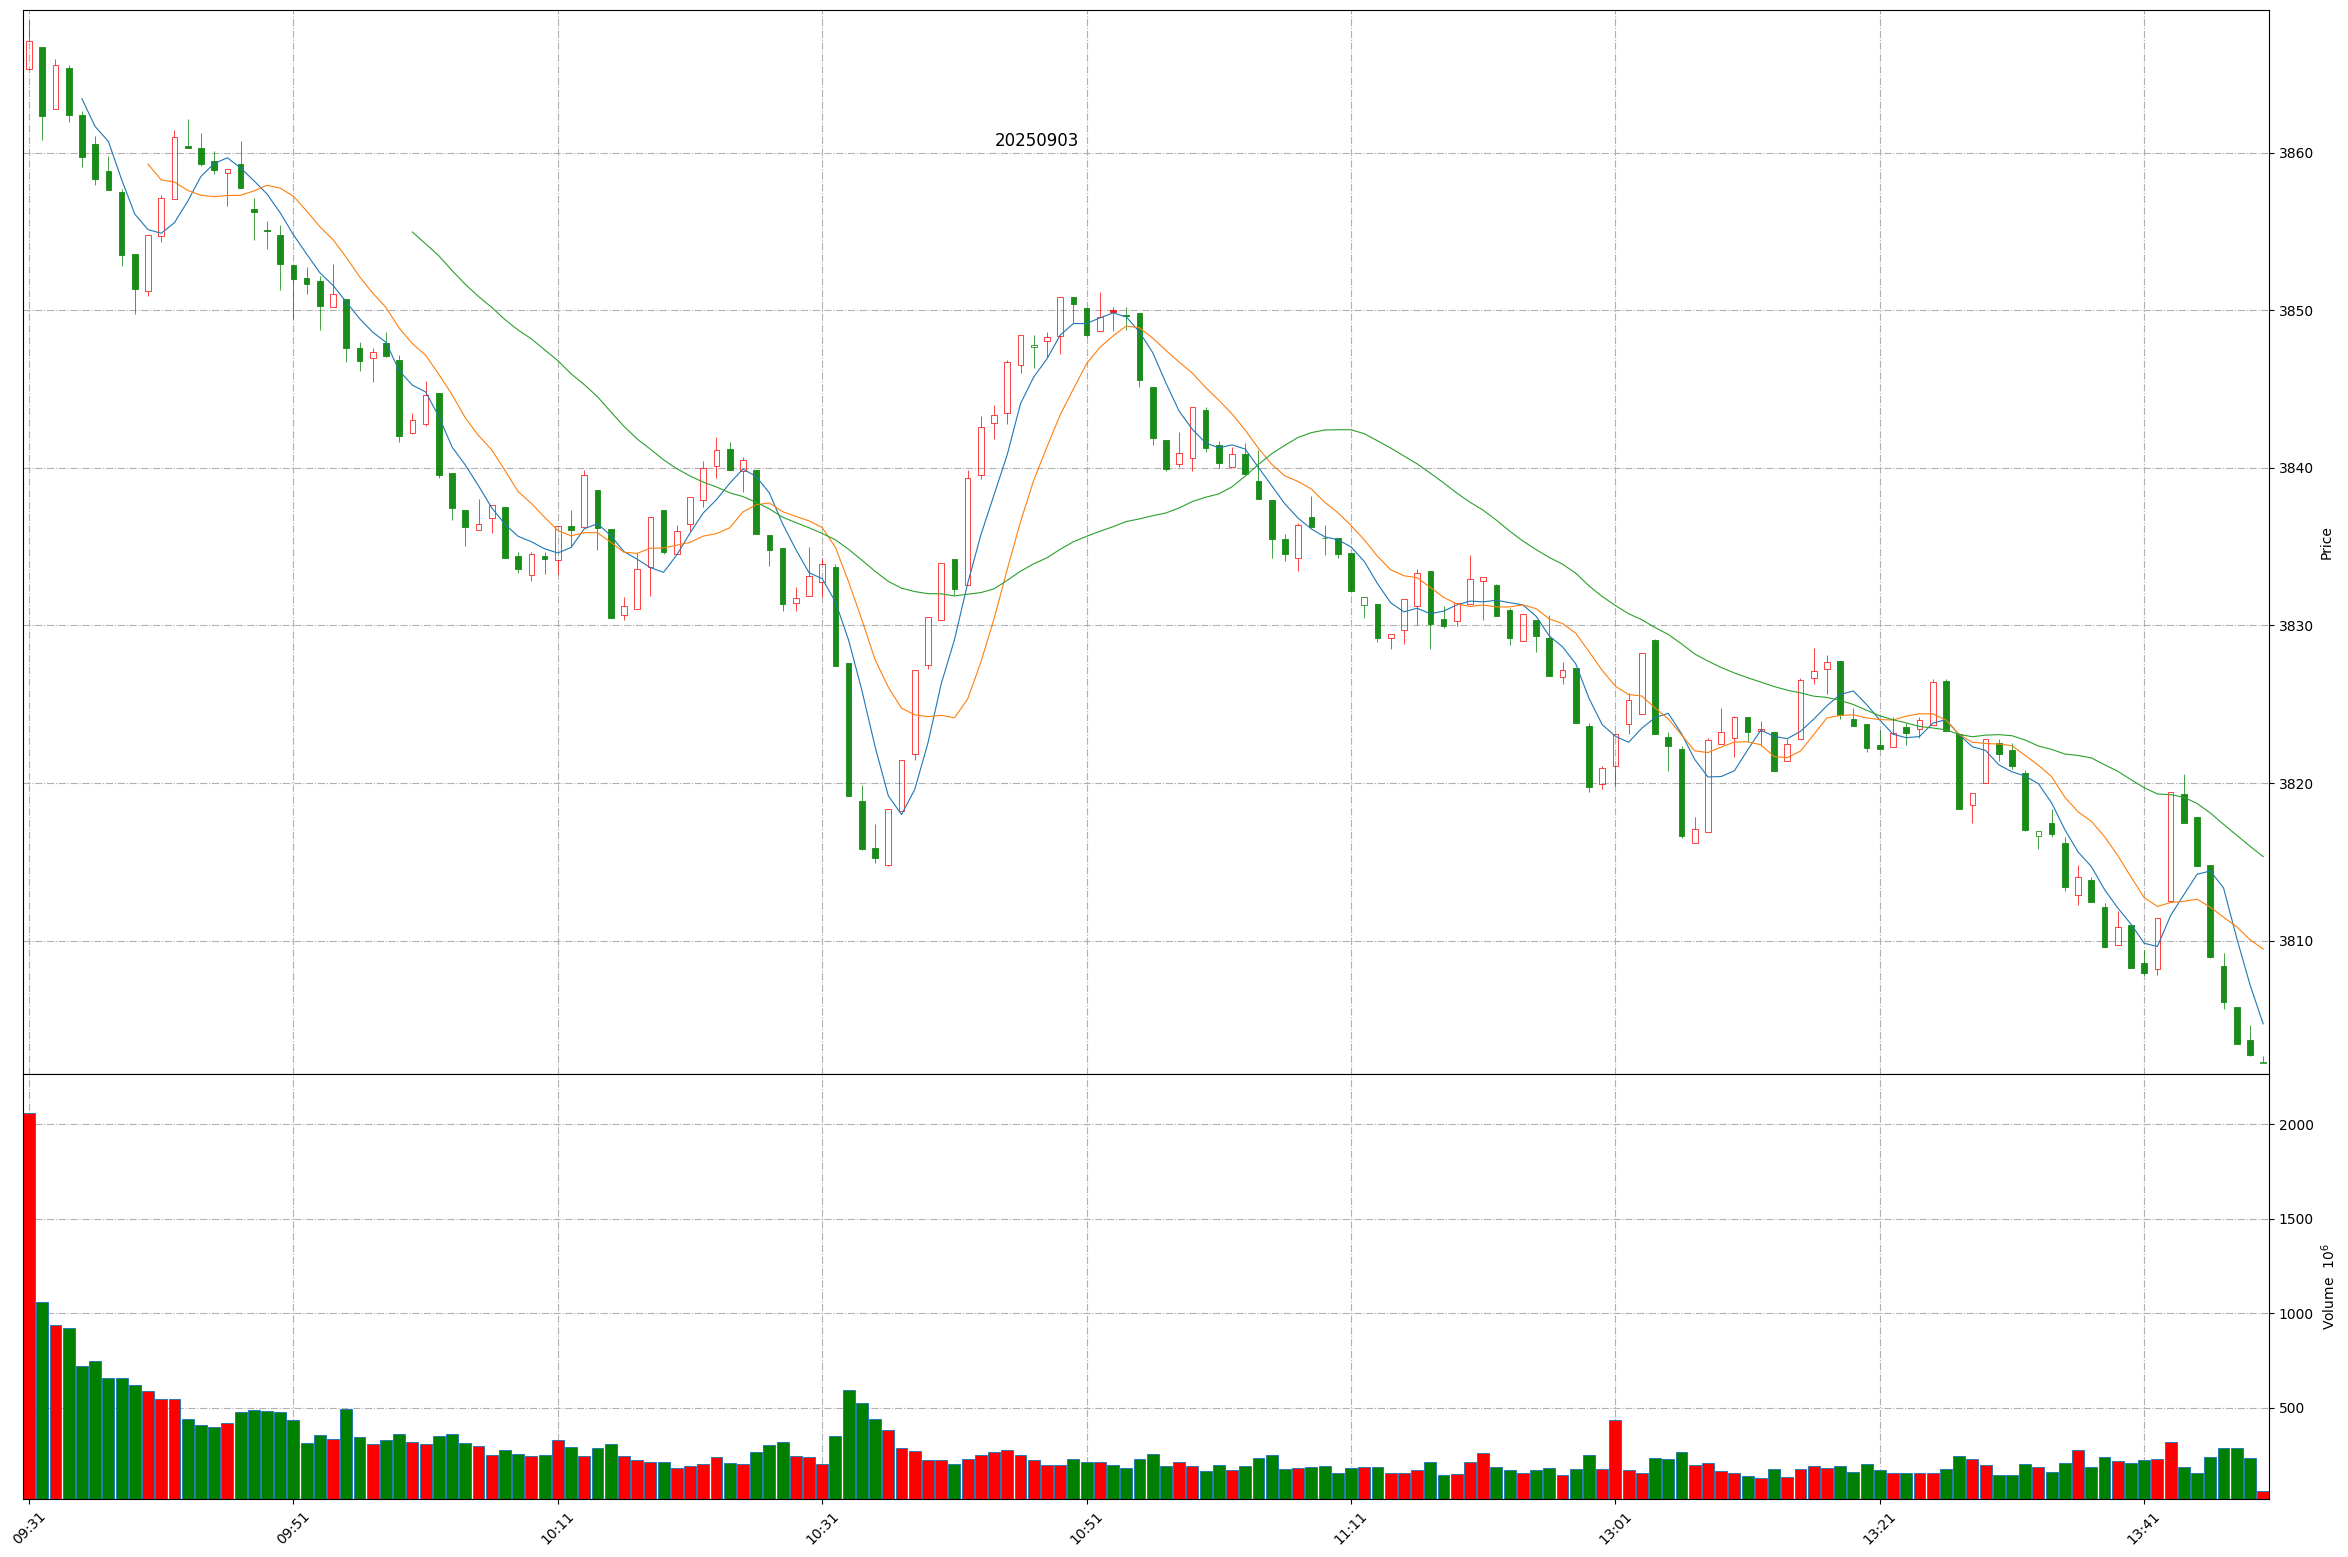
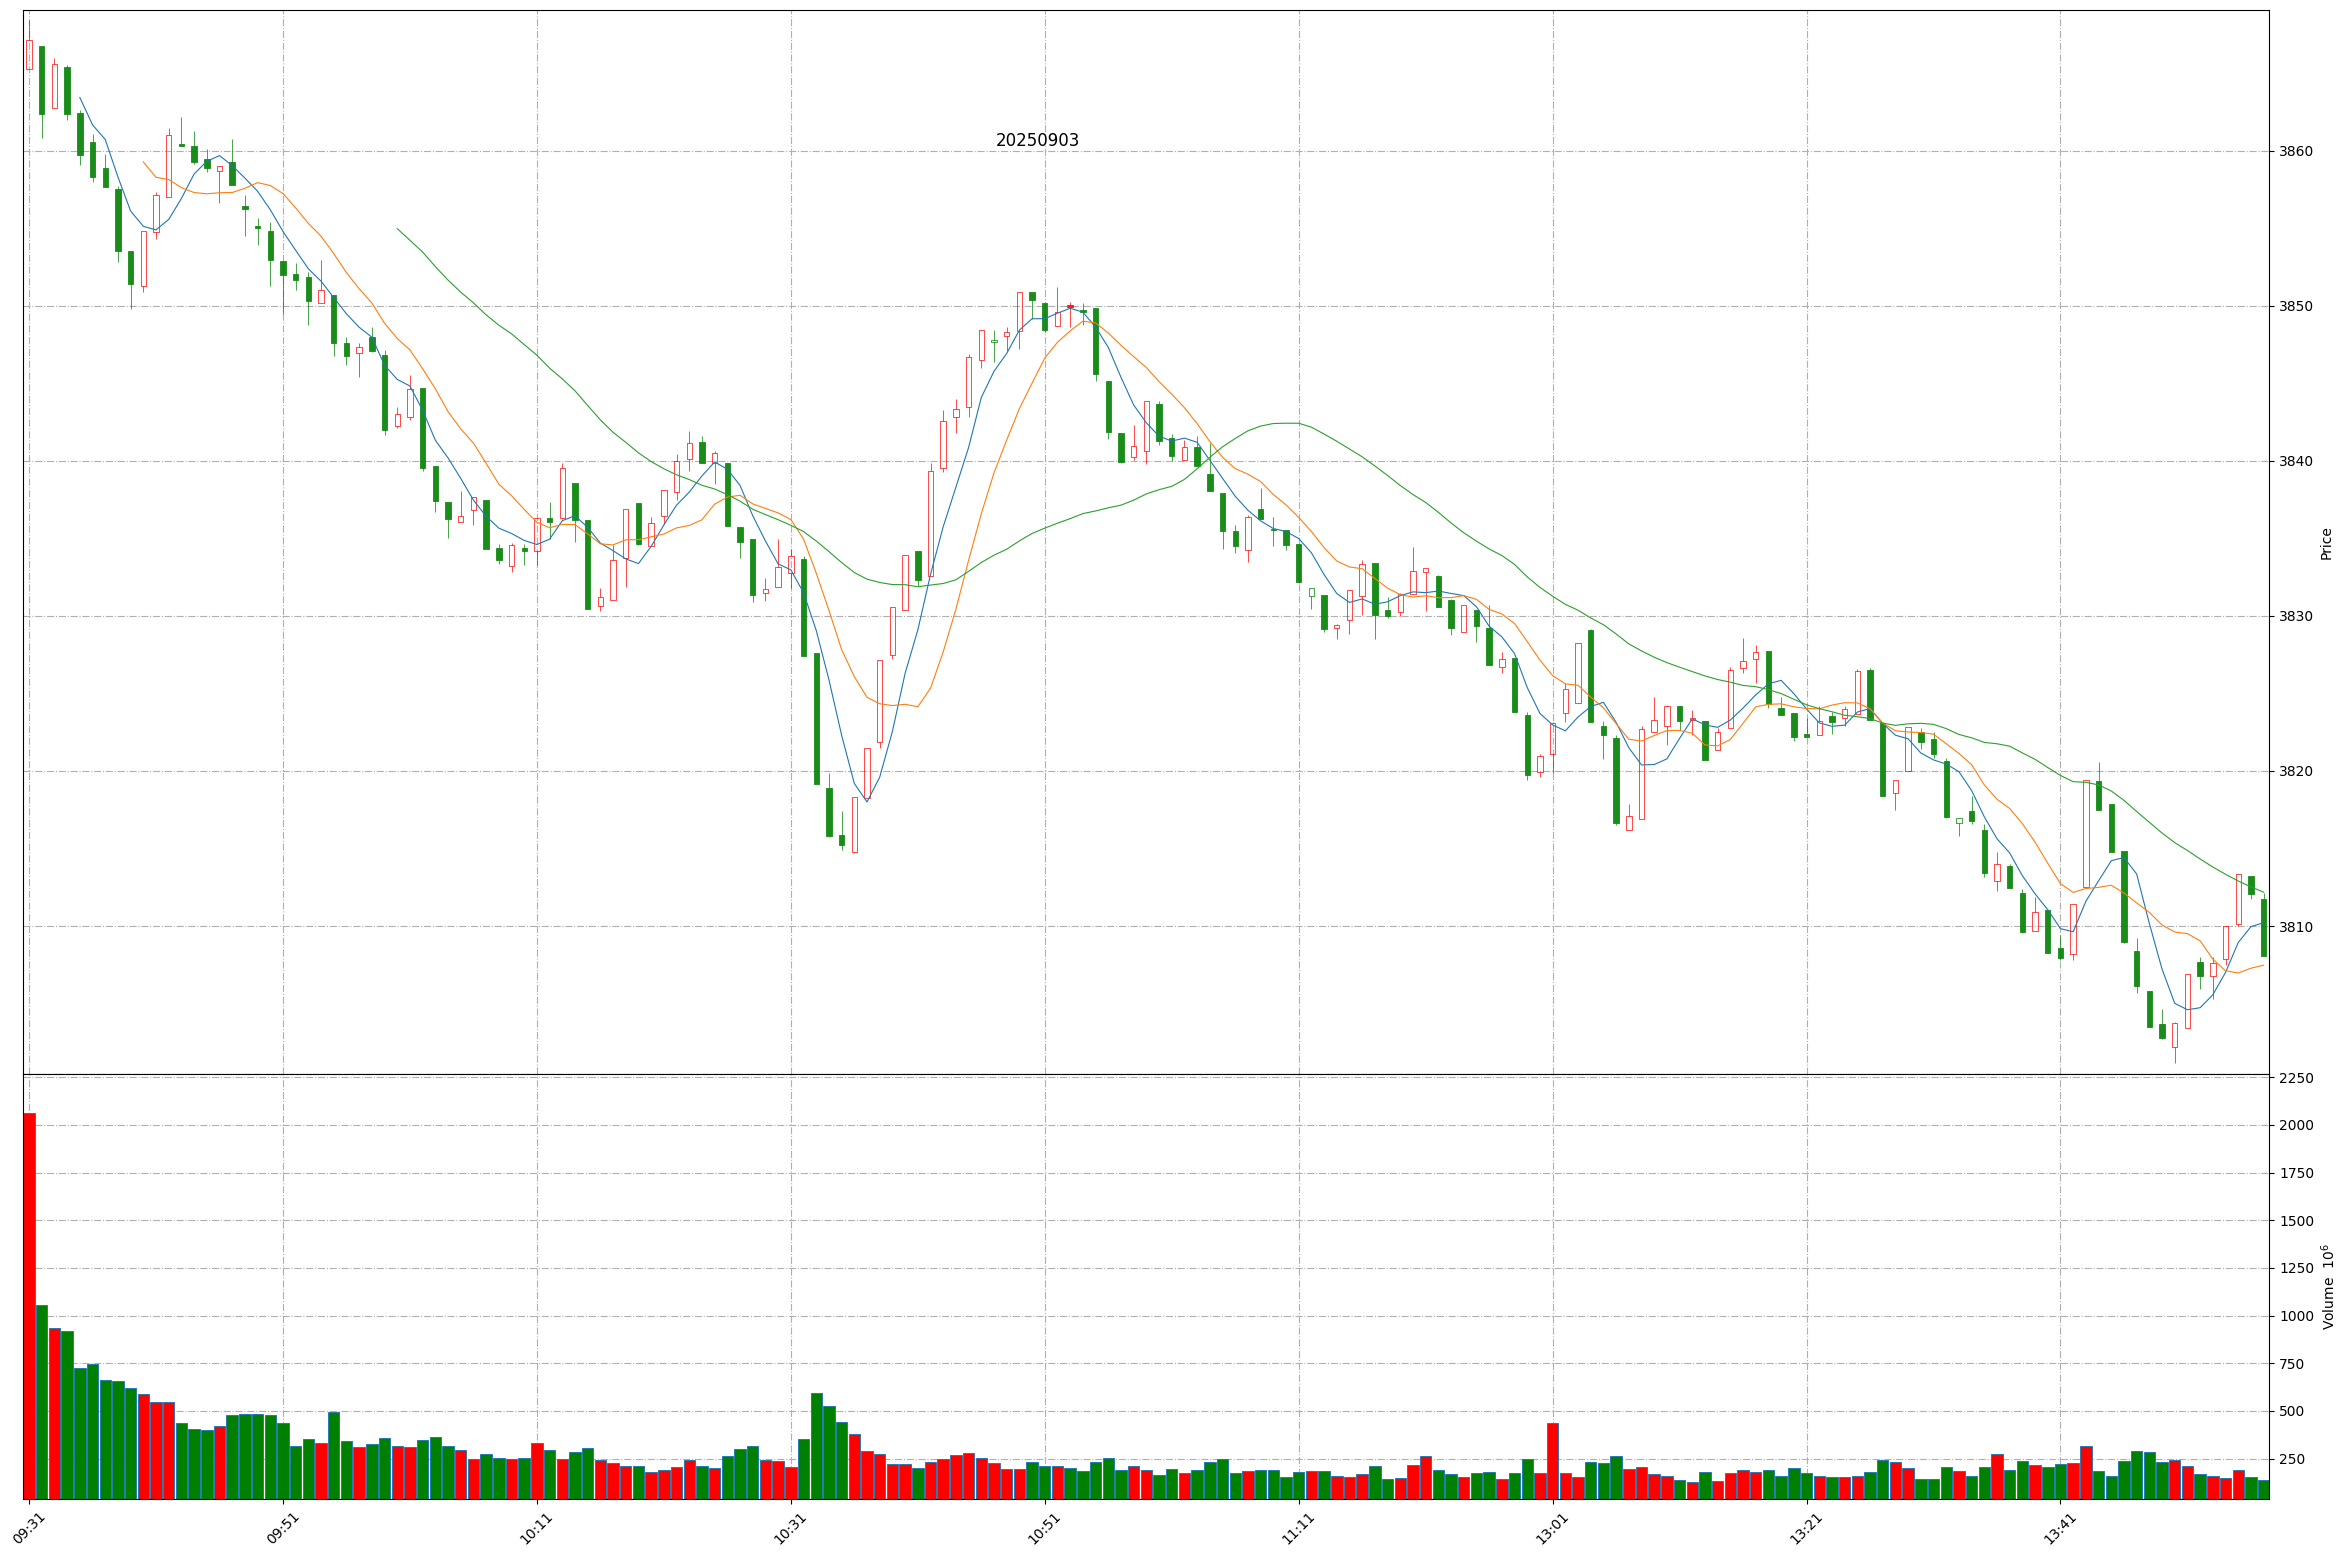
Github action update at 2025-09-03 13:57:07.

diff --git a/README.md b/README.md
@@ -1,11 +1,11 @@
 
 # Daily-A-share-market-quotes 每日 A 股指数（5min 更新）- 20250903
 
-### 上证指数 20250903 13:49
+### 上证指数 20250903 13:57
 ![](./fig/2025/9/20250903-sh000001.png)
 
-### 深证成指 20250903 13:49
+### 深证成指 20250903 13:57
 ![](./fig/2025/9/20250903-sz399001.png)
 
-### 北证50 20250903 13:49
+### 北证50 20250903 13:57
 ![](./fig/2025/9/20250903-bj899050.png)
